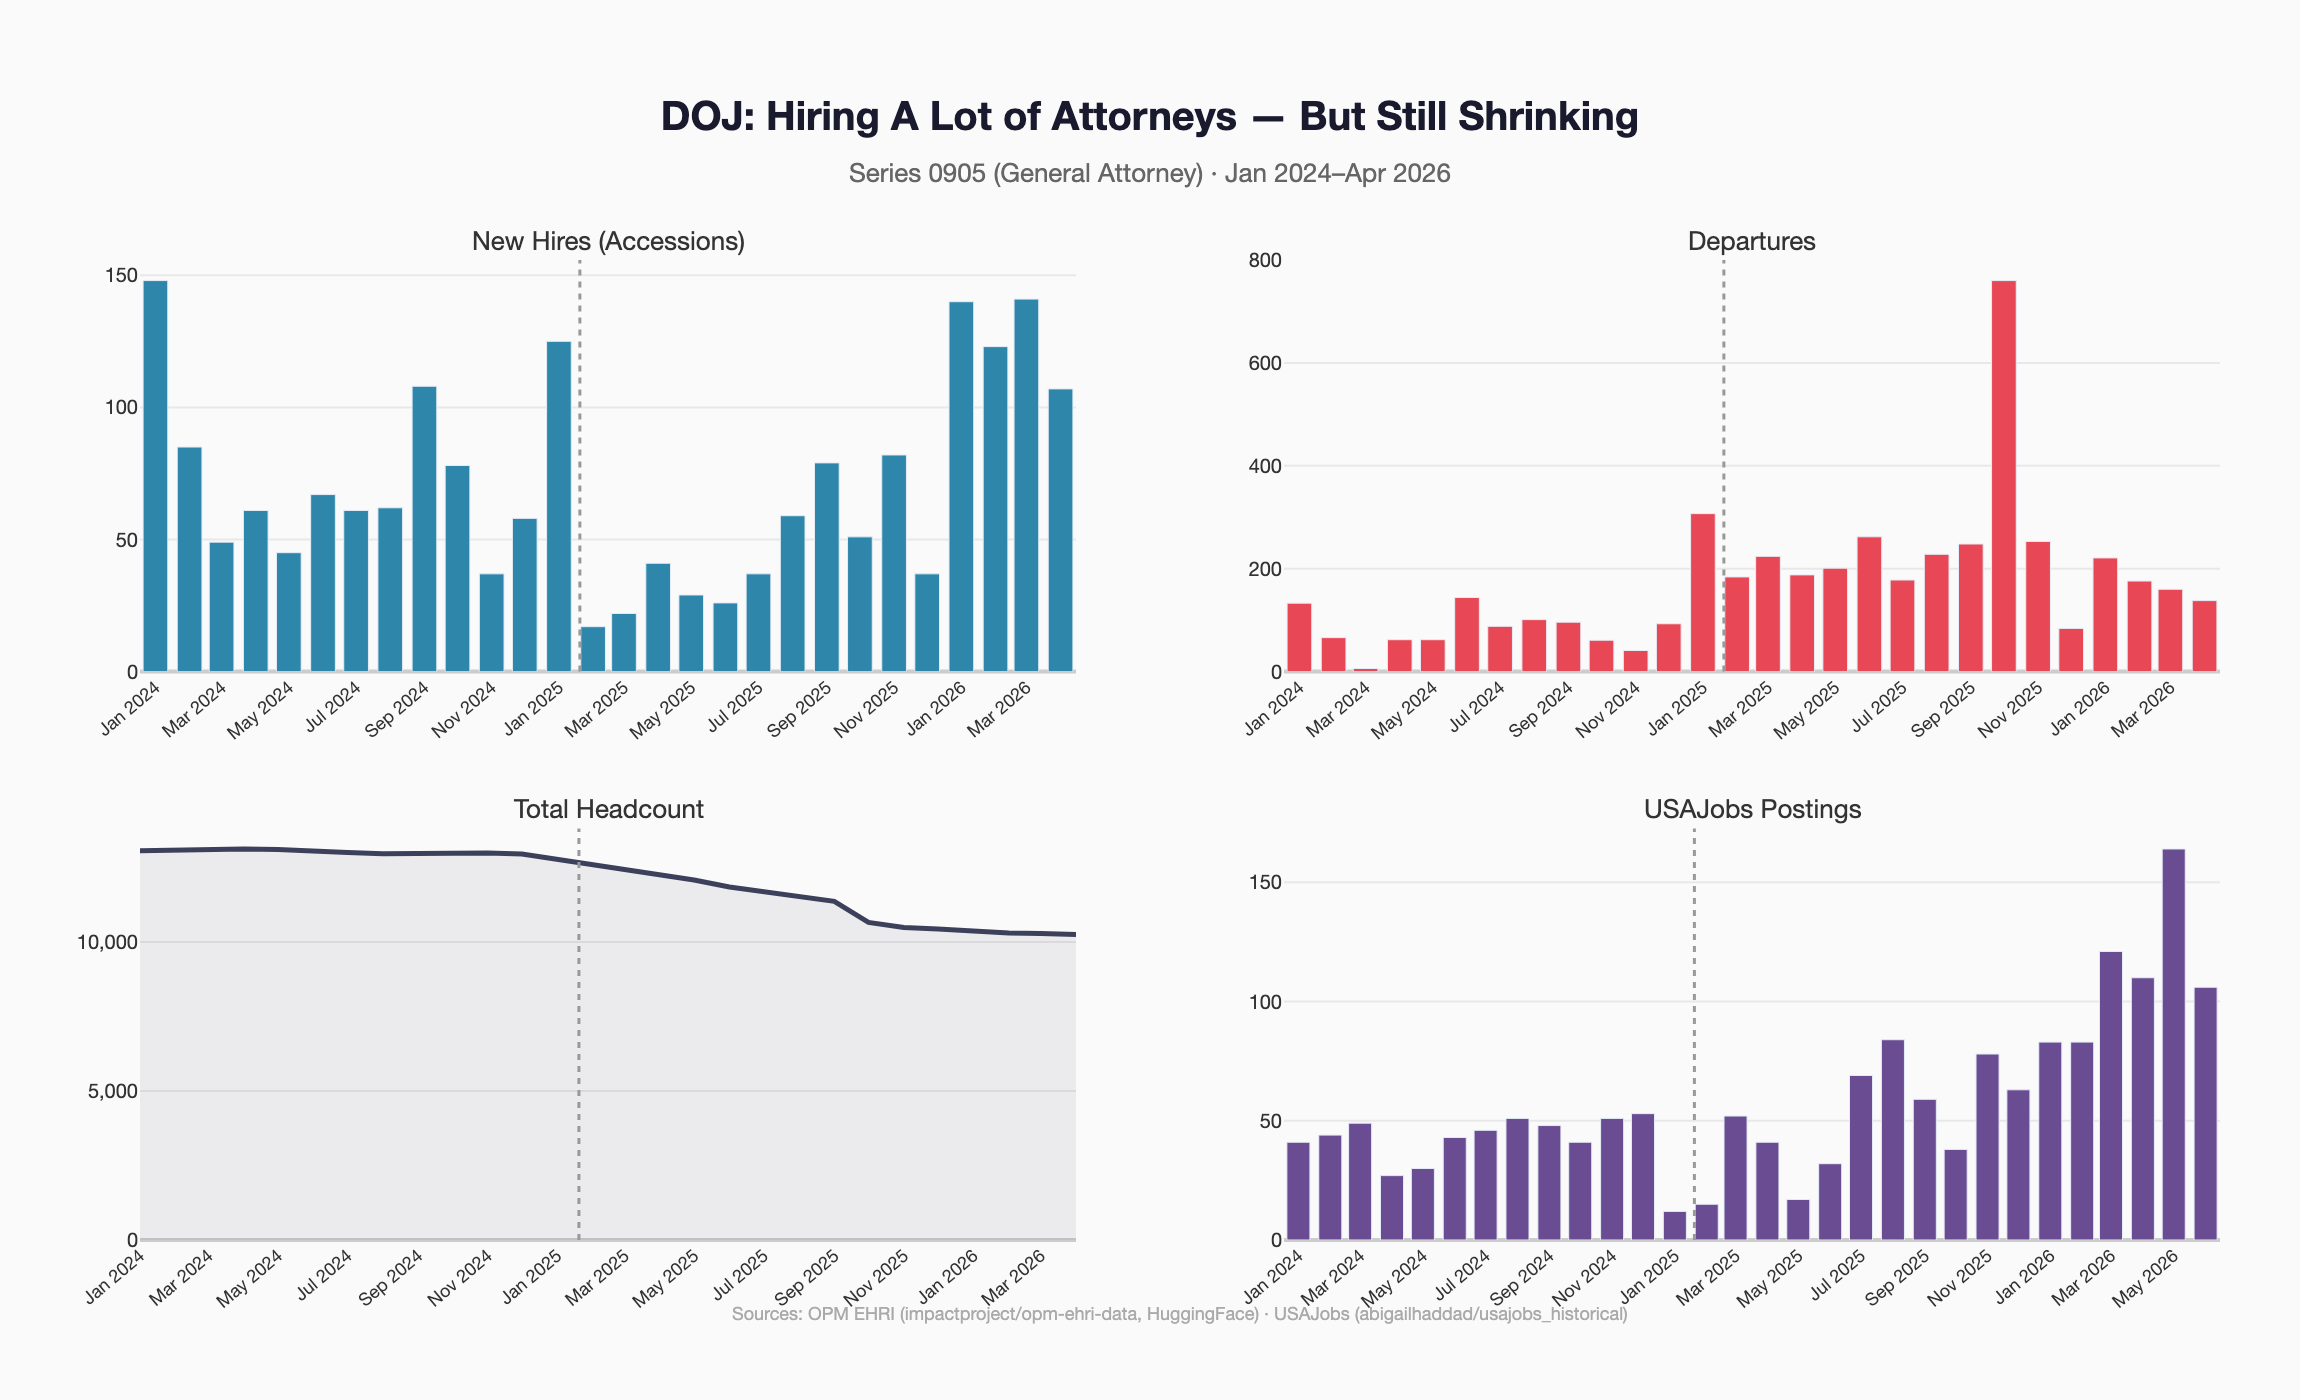
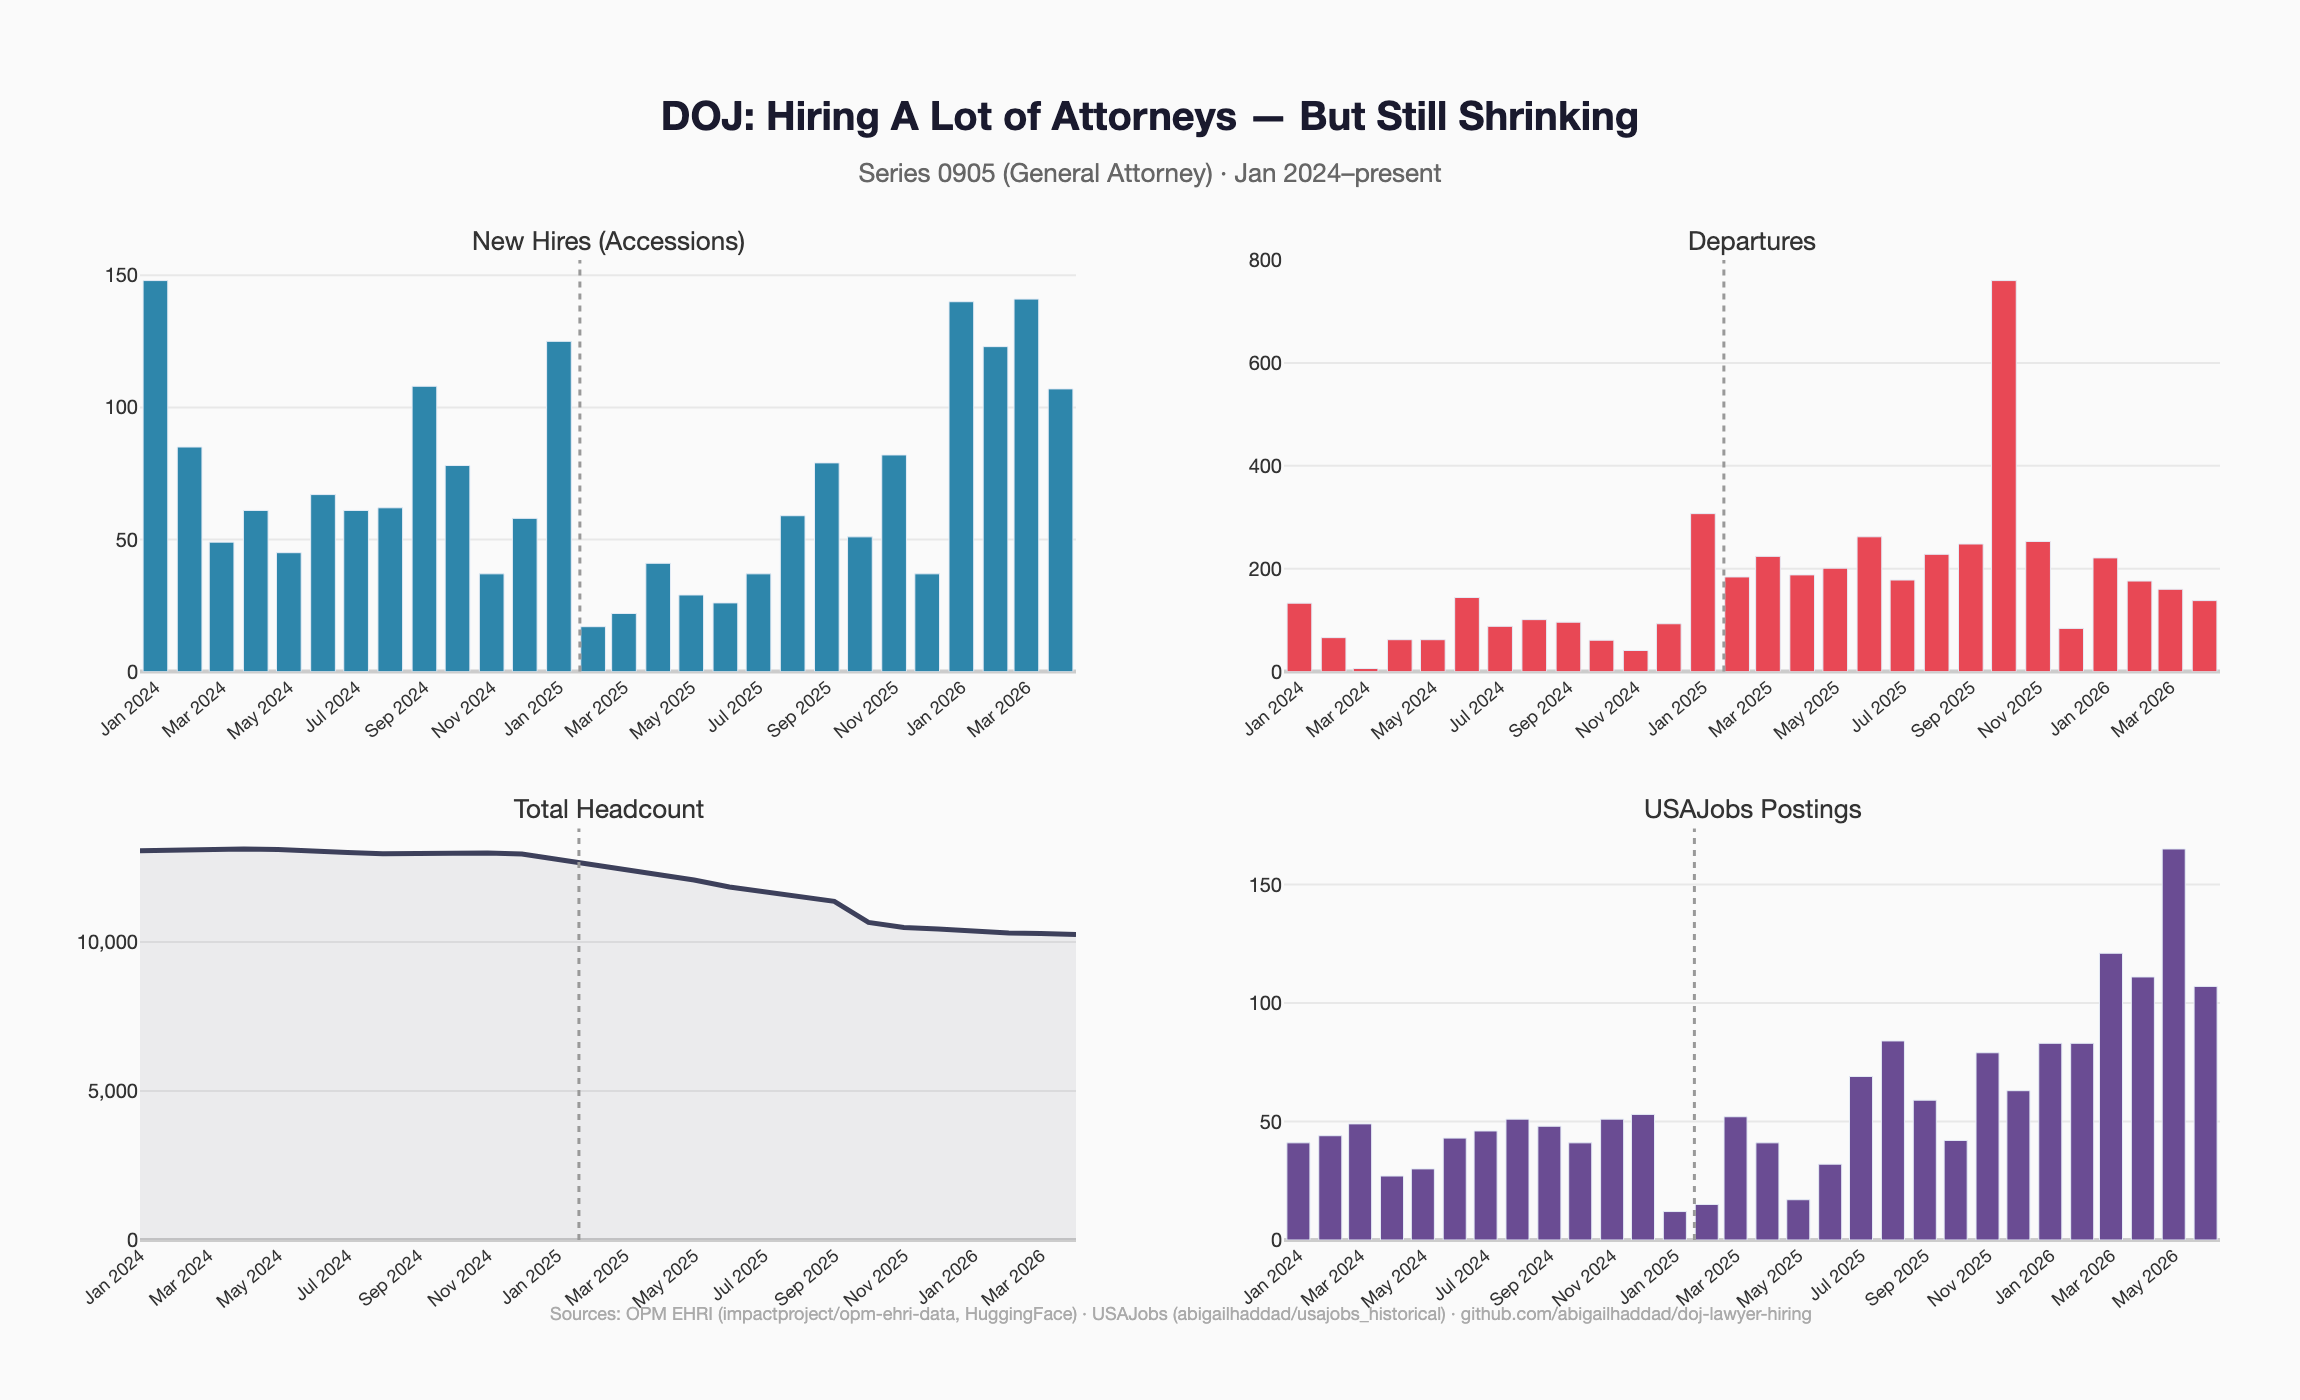
fix: correct USAJobs dedup and update methodology note
Deduplicate historical + current parquets by usajobsControlNumber,
preferring specific bureau-level agency names over department-level
fallbacks. Regenerates postings chart with corrected counts. README
documents the current-only residue and its uncertain cause.

Changed region(s): [[0.247, 0.9214, 0.7717, 0.9521], [0.3704, 0.0921, 0.6174, 0.1536]]

diff --git a/README.md b/README.md
@@ -47,6 +47,14 @@ EHRI doesn't label employees by division name — it uses a **Personnel Office I
 | 1831 | Justice Management Division | Suburban DC (Merrifield VA) |
 | 1817 | Tax Division (dissolved Dec 2025) | Dallas field office |
 
+## USAJobs data methodology note
+
+The R2 mirror combines two parquet families: `historical_jobs_*.parquet` (from the USAJobs historical API, which always returns bureau-level `hiringAgencyName`) and `current_jobs_*.parquet` (from the current search API, which sometimes falls back to the department-level name when `OrganizationName` is null). The notebook deduplicates by `usajobsControlNumber`, preferring historical records and more specific agency names.
+
+A small number of jobs appear only in the current parquets and are absent from the historical API even after closing — the exact reason is unclear (extended announcements, pipeline gaps, or API indexing quirks). These retain the department-level agency name fallback. They are a small fraction of total postings and do not materially affect the DOJ 0905 counts.
+
+See [`abigailhaddad/usajobs_historical`](https://github.com/abigailhaddad/usajobs_historical) README for full details on the combining methodology.
+
 ## Data sources
 
 - **EHRI**: [`impactproject/opm-ehri-data`](https://huggingface.co/datasets/impactproject/opm-ehri-data) on HuggingFace